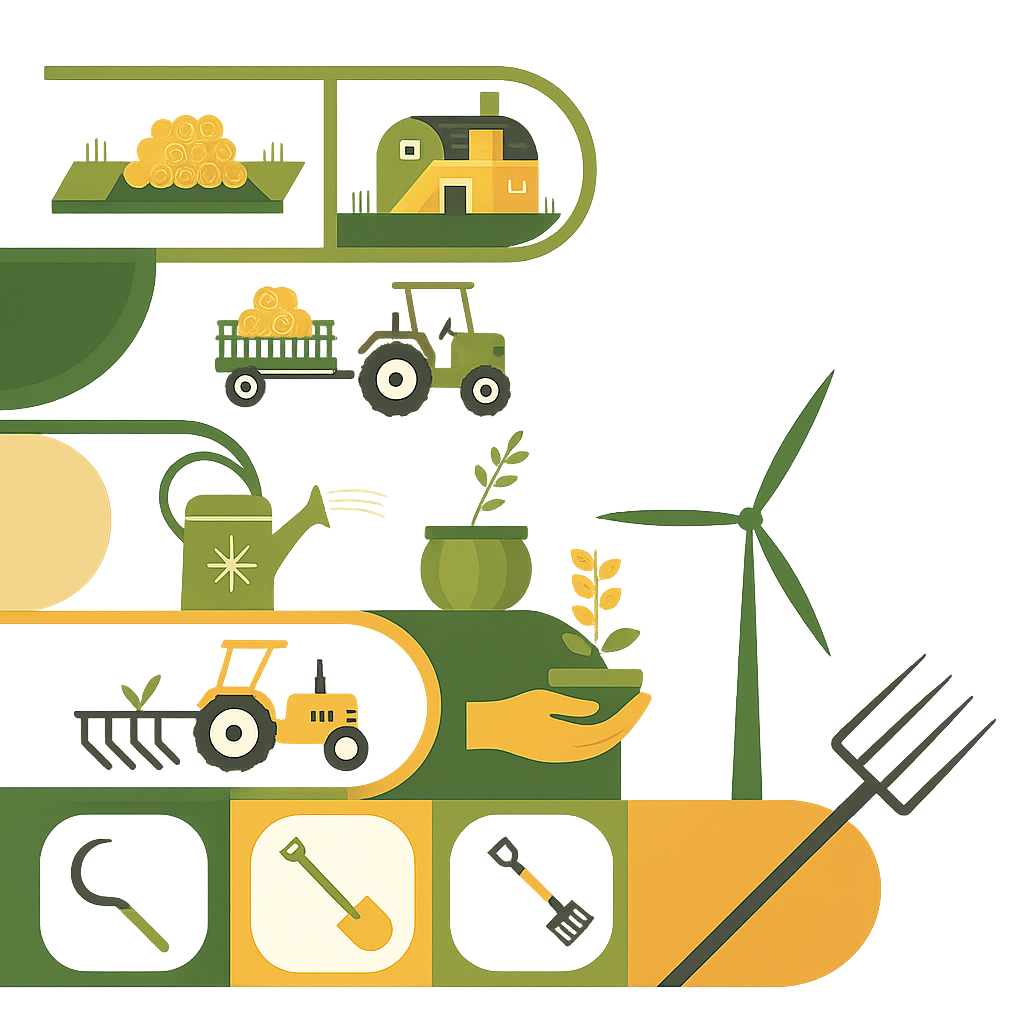
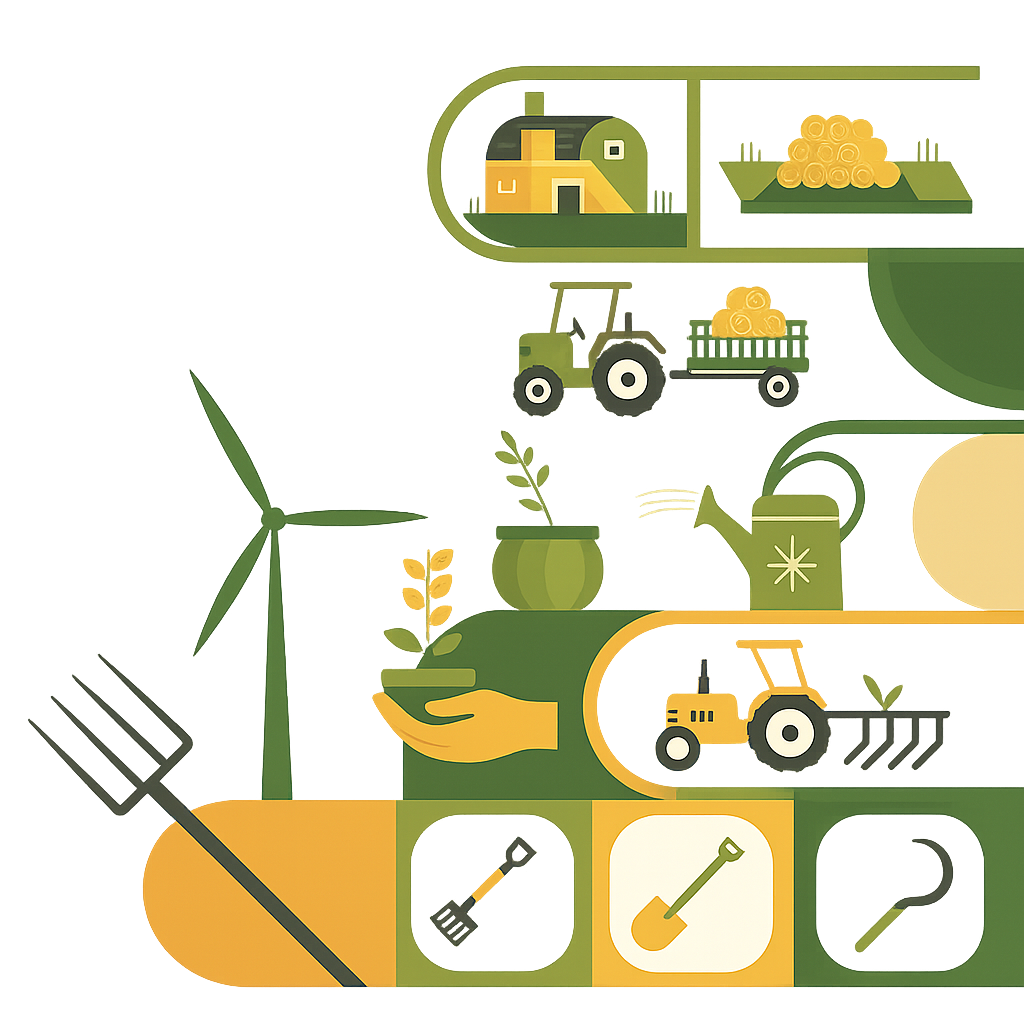
Updates to the client side of the Agricultur Web Application.

diff --git a/Client/Agricultur/src/Pages/Home/Home.tsx b/Client/Agricultur/src/Pages/Home/Home.tsx
@@ -15,11 +15,11 @@ const Home: React.FC = () => {
     })
 
     return (
-    <div id='Home' className='flex justify-center h-screen'>
+    <div id='Home' className='flex flex-row-reverse justify-center h-screen'>
         <div data-aos="fade-right" data-aos-easing="linear" data-aos-duration="1500" className='flex flex-col  justify-center w-5/12' >
             <img src={HomeImage} alt="" />
         </div>
-        <div data-aos="fade-left" data-aos-easing="linear" data-aos-duration="1500" className='flex flex-col justify-start w-7/12'>
+        <div data-aos="fade-left" data-aos-easing="linear" data-aos-duration="1500" className='flex flex-col justify-start items-center w-7/12'>
             <section className='flex flex-col items-center gap-2 h-72'>
                 <h1 className='flex text-5xl h-16 text-center'>Welcome to Agri {<FaLeaf color="green" />} cultur</h1>
                 <p className='m-auto text-xl text-justified w-11/12'>Agricultur is designed to bring smart technology into the hands of those who feed the world. By providing accurate weather updates, tailored cultivation practices, detailed pest and disease information, and direct communication with expert botanists, the app helps farmers make informed decisions at every stage of the crop cycle. Whether you're preparing the land, battling pests, or seeking expert guidance, our app serves as a reliable companion to ensure healthier crops and higher yields.</p>
